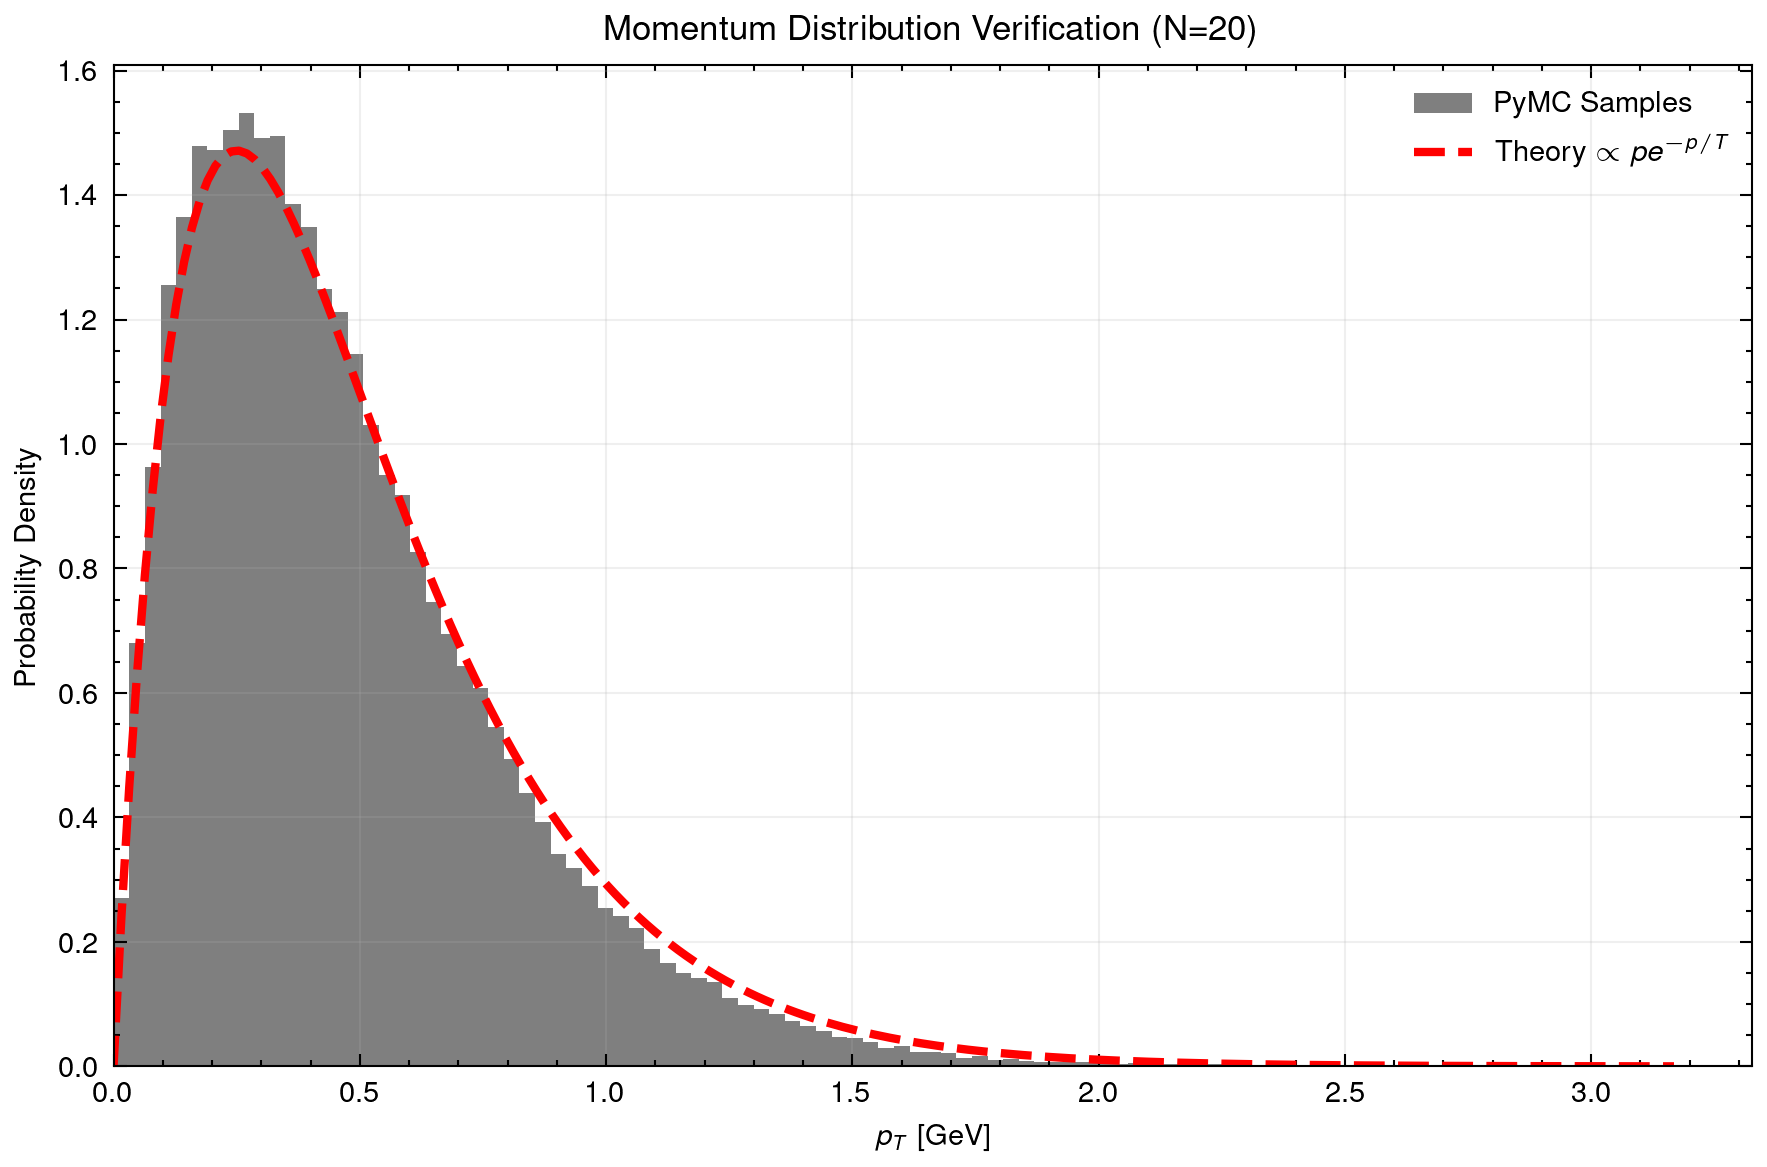
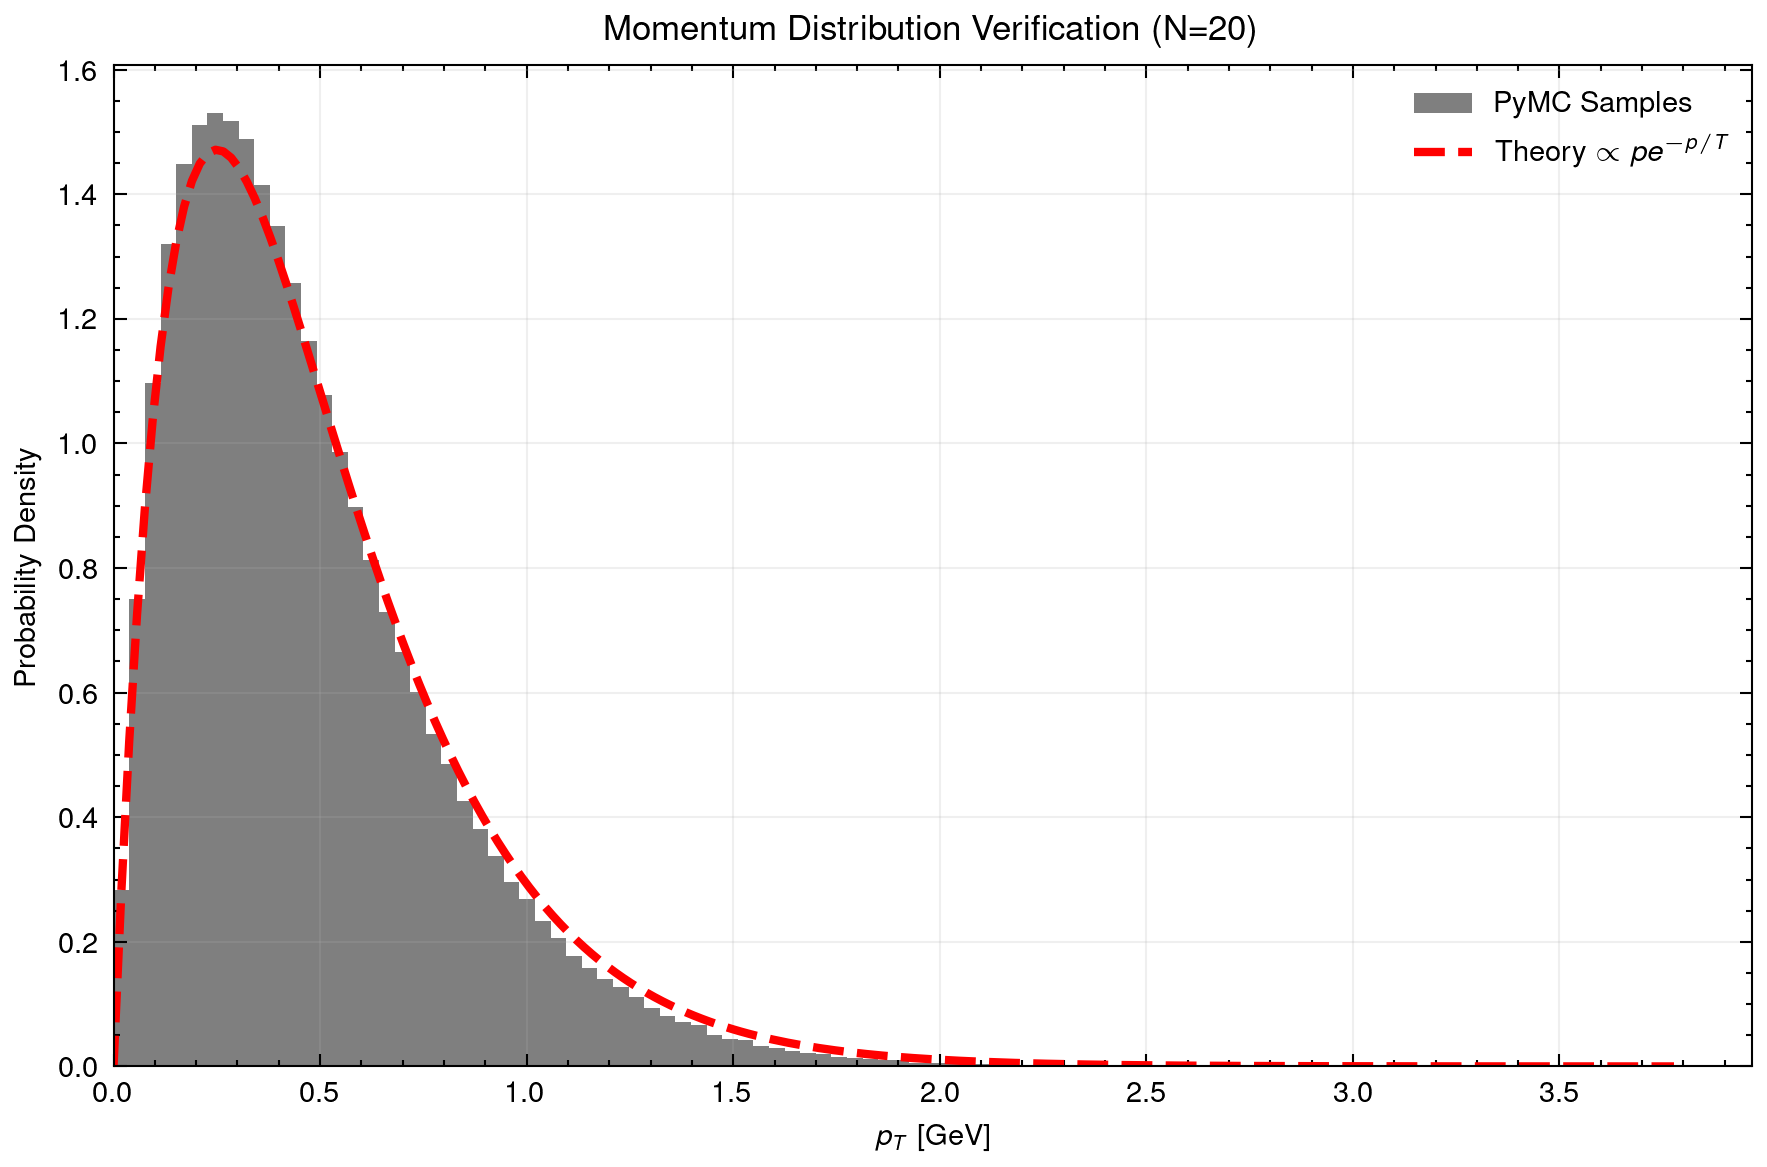
pymc more precision

diff --git a/pymc_test.py b/pymc_test.py
@@ -47,65 +47,87 @@ def calculate_exact_c2_robust(N, T=0.25):
 
 # --- 2. PyMC Simulation Model ---
 
-def run_pymc_tmc(N, T=0.25, draws=2000, tune=1000, return_momenta=False):
+def run_pymc_tmc(N, T=0.25, draws=5000, tune=2000, chains=4,
+                 target_accept=0.95, return_momenta=False, verbose=False):
     """
-    Runs the TMC simulation using PyMC.
-    
+    Runs the TMC simulation using PyMC with high-precision settings.
+
     Args:
         N (int): Number of particles.
         T (float): Temperature parameter (GeV).
-        draws (int): Number of samples to draw.
+        draws (int): Number of samples to draw per chain.
         tune (int): Number of tuning steps for NUTS sampler.
+        chains (int): Number of independent MCMC chains.
+        target_accept (float): Target acceptance rate for NUTS (higher = more precise).
         return_momenta (bool): If True, returns flat arrays of px, py for distribution check.
-        
+        verbose (bool): If True, print diagnostic information.
+
     Returns:
         np.array: Array of c2{2} values calculated for each event (if return_momenta=False).
         tuple: (px_flat, py_flat) (if return_momenta=True).
     """
     with pm.Model() as model:
         # --- A. Priors for N-1 particles ---
-        # The single particle distribution f(p) ~ exp(-p/T) in 2D 
+        # The single particle distribution f(p) ~ exp(-p/T) in 2D
         # corresponds to a Gamma(alpha=2, beta=1/T) for the magnitude p.
         p_mag_rest = pm.Gamma("p_mag_rest", alpha=2, beta=1/T, shape=N-1)
         phi_rest = pm.Uniform("phi_rest", lower=0, upper=2*np.pi, shape=N-1)
-        
+
         # Convert to Cartesian coordinates (using PyTensor)
         px_rest = p_mag_rest * pt.cos(phi_rest)
         py_rest = p_mag_rest * pt.sin(phi_rest)
-        
+
         # --- B. Enforce Momentum Conservation ---
         # The N-th particle is fully determined by the sum of the others.
         px_last = -pt.sum(px_rest)
         py_last = -pt.sum(py_rest)
-        
+
         # Calculate magnitude of the N-th particle
         p_mag_last = pt.sqrt(px_last**2 + py_last**2)
-        
+
         # --- C. Apply Physics Constraint via Potential ---
         # The N-th particle must also satisfy the Boltzmann weight exp(-p/T).
         # We add log(exp(-p/T)) = -p/T to the model's log-likelihood.
         pm.Potential("energy_constraint_nth", -p_mag_last / T)
-        
+
         # --- D. Reconstruction for Output ---
         # Concatenate (N-1) particles with the N-th particle
         # px_all shape: (N,)
         px_all = pt.concatenate([px_rest, pt.stack([px_last])])
         py_all = pt.concatenate([py_rest, pt.stack([py_last])])
-        
+
         # Deterministic variables are saved in the trace
         pm.Deterministic("px", px_all)
         pm.Deterministic("py", py_all)
-        
-        # --- E. Sampling ---
-        # Using NUTS (No-U-Turn Sampler) which is highly efficient
-        trace = pm.sample(draws=draws, tune=tune, chains=2, progressbar=False)
 
-    # --- F. Post-Processing ---
+        # --- E. Sampling with High-Precision Settings ---
+        trace = pm.sample(
+            draws=draws,
+            tune=tune,
+            chains=chains,
+            cores=chains,  # Parallel chains
+            nuts_sampler="pymc",
+            nuts_sampler_kwargs={"target_accept": target_accept},
+            progressbar=False,
+            discard_tuned_samples=True,
+            return_inferencedata=True,
+            random_seed=42,  # Reproducibility
+        )
+
+    # --- F. Diagnostics (optional) ---
+    if verbose:
+        import arviz as az
+        summary = az.summary(trace, var_names=["p_mag_rest"])
+        print(f"  ESS bulk (min): {summary['ess_bulk'].min():.0f}")
+        print(f"  ESS tail (min): {summary['ess_tail'].min():.0f}")
+        print(f"  R-hat (max): {summary['r_hat'].max():.4f}")
+
+    # --- G. Post-Processing ---
     # Extract data from posterior
     # shape: (chains, draws, N)
     px_data = trace.posterior["px"].values
     py_data = trace.posterior["py"].values
-    
+
     # Merge chains and draws
     # shape: (total_samples, N)
     px_flat = px_data.reshape(-1, N)
@@ -116,26 +138,27 @@ def run_pymc_tmc(N, T=0.25, draws=2000, tune=1000, return_momenta=False):
 
     # Calculate Azimuthal Angles
     phi_flat = np.arctan2(py_flat, px_flat)
-    
+
     # Calculate Q-vector: Q2 = sum(e^(i*2*phi))
     Q2 = np.sum(np.exp(1j * 2 * phi_flat), axis=1)
-    
+
     # Calculate c2{2} estimator per event
     # Formula: (|Q|^2 - N) / (N(N-1))
     c2_samples = (np.abs(Q2)**2 - N) / (N * (N - 1))
-    
+
     return c2_samples
 
 
 # --- 3. Distribution Verification Function ---
 
-def check_and_plot_distribution(N=20, T=0.25, draws=2000):
+def check_and_plot_distribution(N=20, T=0.25, draws=5000, chains=4):
     """
     Runs a simulation to verify if the generated momentum distribution
     matches the theoretical Gamma distribution.
     """
     print(f"\n--- Running Distribution Check (N={N}) ---")
-    px, py = run_pymc_tmc(N, T, draws, tune=1000, return_momenta=True)
+    px, py = run_pymc_tmc(N, T, draws=draws, tune=2000, chains=chains,
+                          return_momenta=True, verbose=True)
     
     # Calculate magnitude p_T
     p_mag = np.sqrt(px**2 + py**2).flatten()
@@ -176,13 +199,16 @@ if __name__ == "__main__":
     except:
         plt.style.use('default')
 
-    # Parameters
-    N_list = [10, 20, 30, 40, 50]  # Reduced range for demonstration speed
+    # Parameters - High Precision Settings
+    N_list = [10, 20, 30, 40, 50, 60, 80, 100]  # Extended range
     T_val = 0.25
-    Draws = 3000  # Number of MCMC samples
+    Draws = 5000     # Samples per chain
+    Chains = 4       # Number of independent chains
+    Tune = 2000      # Tuning steps
+    Target_Accept = 0.95  # Higher acceptance for precision
 
     # Step 1: Verify Distribution first
-    check_and_plot_distribution(N=20, T=T_val, draws=2000)
+    check_and_plot_distribution(N=20, T=T_val, draws=Draws, chains=Chains)
 
     # Step 2: Run Main Simulation Loop
     results_sim_mean = []
@@ -194,26 +220,34 @@ if __name__ == "__main__":
     print("-" * 45)
 
     for n_particle in N_list:
-        # 1. Run PyMC Simulation
-        c2_samples = run_pymc_tmc(N=n_particle, T=T_val, draws=Draws)
-        
+        # 1. Run PyMC Simulation with high-precision settings
+        c2_samples = run_pymc_tmc(
+            N=n_particle,
+            T=T_val,
+            draws=Draws,
+            tune=Tune,
+            chains=Chains,
+            target_accept=Target_Accept,
+            verbose=True
+        )
+
         # Calculate Statistics
         # Note: c2{2} can be slightly negative due to fluctuations, so we take mean then sqrt
         mean_c2 = np.mean(c2_samples)
         err_c2_mean = np.std(c2_samples) / np.sqrt(len(c2_samples))
-        
+
         # Convert to RMS flow (sqrt(c2))
         # Propagate error: d(sqrt(x)) = dx / (2*sqrt(x))
         sim_val = np.sqrt(np.abs(mean_c2))
         sim_err = err_c2_mean / (2 * sim_val)
-        
+
         results_sim_mean.append(sim_val)
         results_sim_err.append(sim_err)
-        
+
         # 2. Exact Theory Calculation
         exact_val = np.sqrt(calculate_exact_c2_robust(n_particle, T=T_val))
         results_exact.append(exact_val)
-        
+
         print(f"{n_particle:<5} | {sim_val:.5f} +/- {sim_err:.5f} | {exact_val:.5f}")
 
 
@@ -225,9 +259,10 @@ if __name__ == "__main__":
     ax.plot(N_list, results_exact, 'r-', linewidth=2, label='Exact Analytical (Bessel)')
 
     # Plot Simulation
-    ax.errorbar(N_list, results_sim_mean, yerr=results_sim_err, 
-                fmt='ko', markersize=6, capsize=3, 
-                label='PyMC Simulation (NUTS)')
+    total_samples = Draws * Chains
+    ax.errorbar(N_list, results_sim_mean, yerr=results_sim_err,
+                fmt='ko', markersize=6, capsize=3,
+                label=f'PyMC NUTS ({total_samples} samples)')
 
     # Plot Settings
     ax.set_xlabel(r'$N$ (Multiplicity)')
